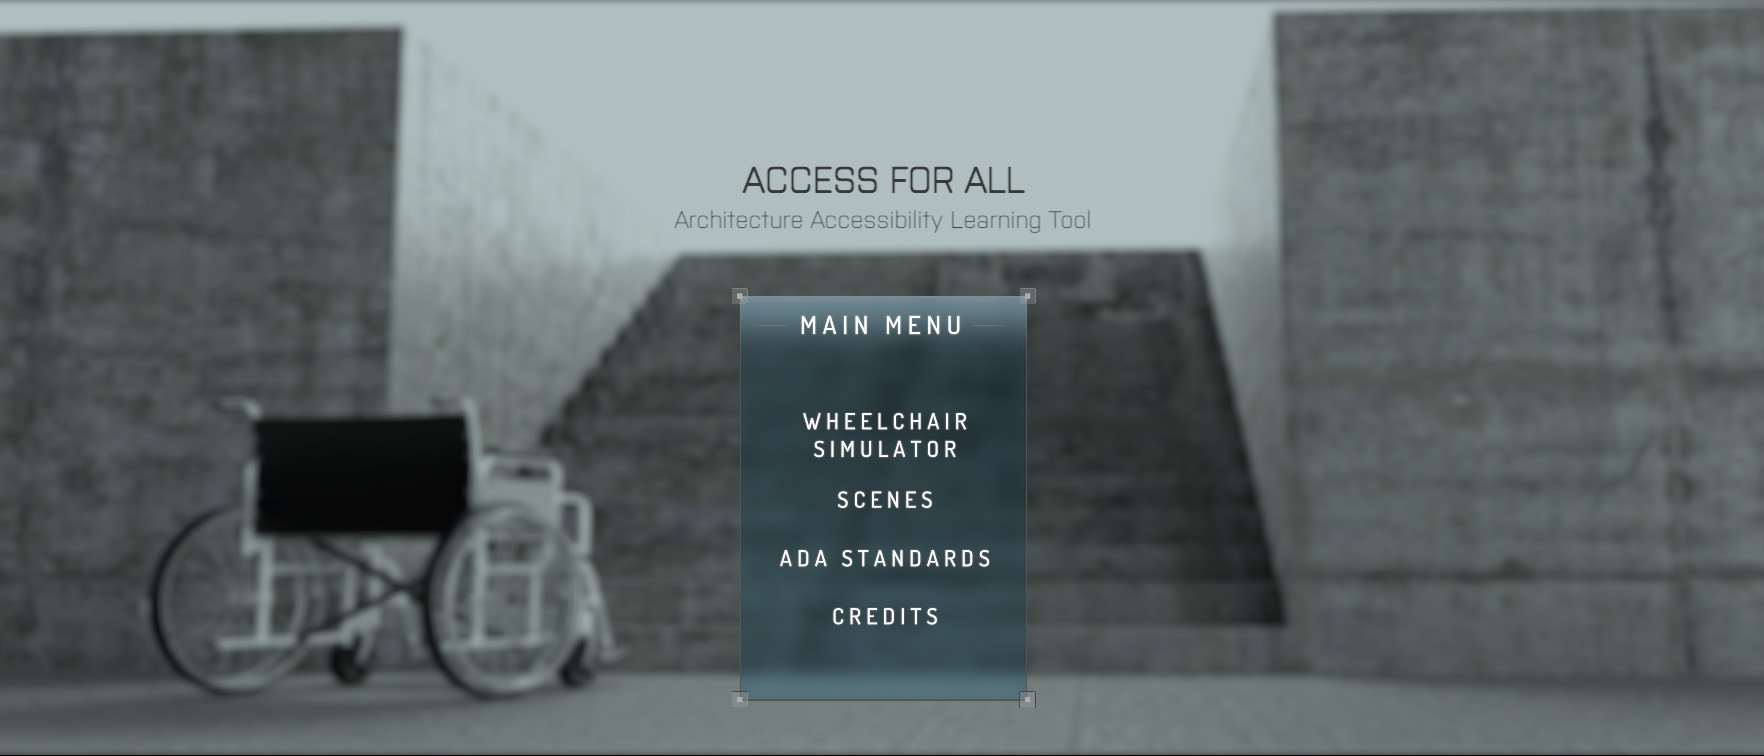
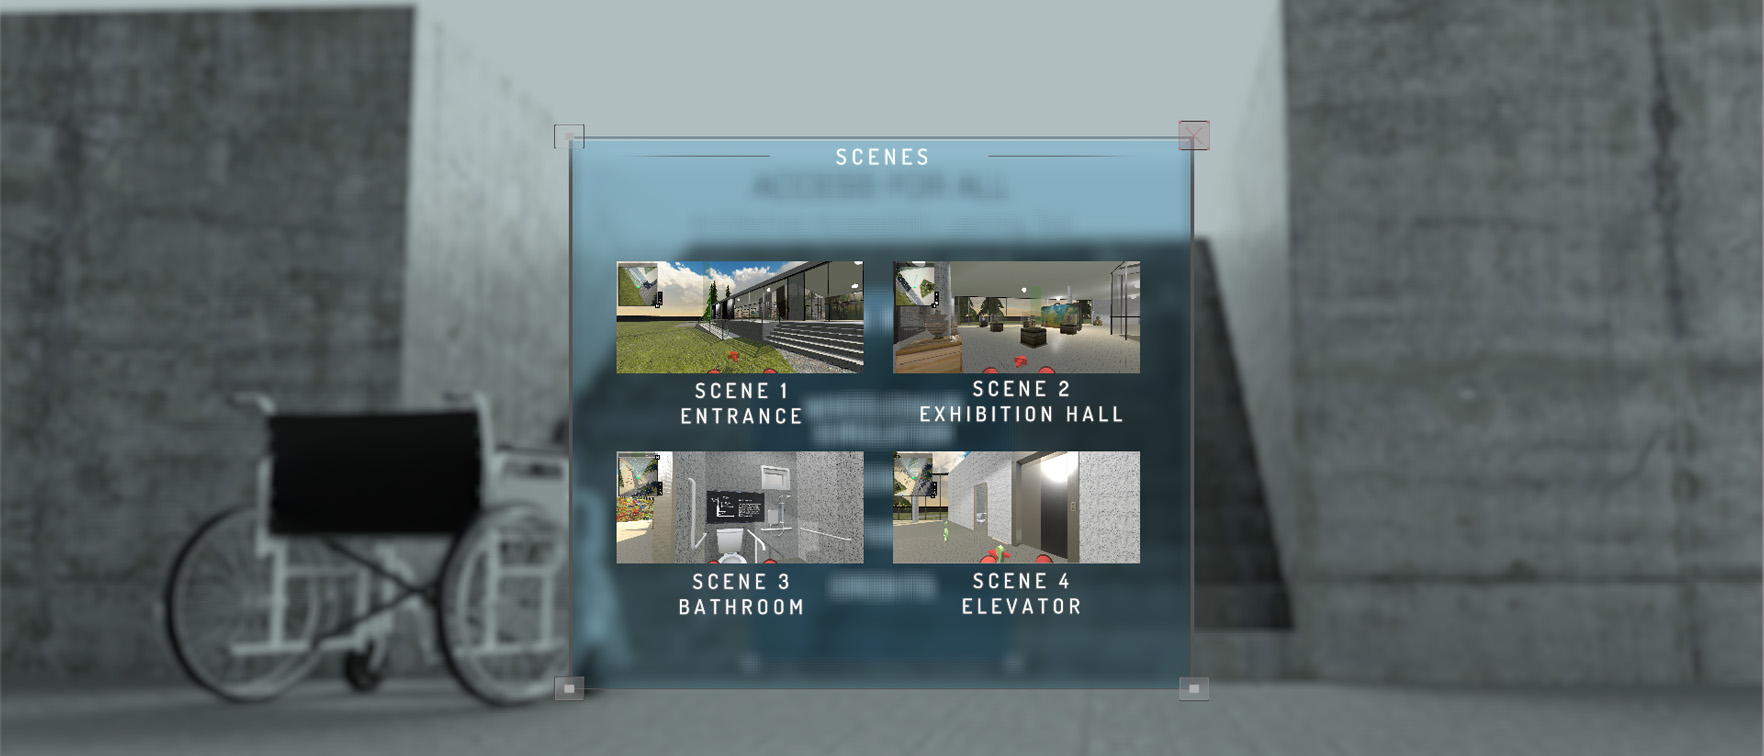
08/12 updates

diff --git a/vr_accessforall.html b/vr_accessforall.html
@@ -77,7 +77,7 @@
                   <a class="nav-link" href="#project-overview">About Project</a>
                 </li>
                 <li class="nav-item">
-                  <a class="nav-link" href="about_me.html">About Me</a>
+                  <a class="nav-link" href="about_me_.html">About Me</a>
                 </li>
                 <li class="nav-item">
                   <a class="nav-link" href="mailto:wayne11373@gmail.com"
@@ -109,7 +109,9 @@
       </div>
 
       <div class="menu my-5">
-        <a class="menu-item d-block" href="#project-overview">WHAT DO I DO?</a>
+        <a class="menu-item d-block" href="#project-overview"
+          >WHAT'S 'ACCESS FOR ALL'?</a
+        >
         <a class="menu-item d-block" href="#mockups">WANNA SEE SOME GOODS?</a>
         <a
           class="menu-item d-block"
@@ -162,7 +164,7 @@
       <div class="row">
         <!-- Project Overview-->
         <div class="col-md-3">
-          <h2 class="section-title">Project Overview</h2>
+          <h2 id="project-overview" class="section-title">Project Overview</h2>
         </div>
         <div class="col-md-9">
           <div class="project-body">
@@ -170,15 +172,21 @@
             <p>
               Access For All is a virtual reality platform that enables
               architects to <b>test their designs</b> and
-              <b>learn about ADA accessibility standards</b>.
+              <b>learn about Architecture ADA accessibility standards</b>.
             </p>
+            <img
+              src="/assets/Access For All/ada_checklists.png"
+              class="project-img"
+              alt="ADA Checklists"
+            />
+            <br />
             <br />
             <p class="icon-bullet">| Problem Statement</p>
             <p>
               - Most <b>young architects</b> don’t have any experience of using
               accessible devices like a wheelchair. It’s too difficult for them
               to have an actual and correct feeling of whether the space is
-              appropriate for wheelchair users before construction. <br />
+              appropriate for wheelchair users before construction. <br /><br />
 
               - The traditional way of reading and learning the ADA architecture
               design standards manual is <b>inefficient and time-consuming</b>,
@@ -194,7 +202,6 @@
               alt="Who"
               style="width: 70%; display: block; margin-left: 0"
             />
-            <br />
             <br />
             <br />
           </div>
@@ -236,7 +243,6 @@
               Rehabilitation), Human Factors in Virtual Reality, Virtual Reality
               & Empathy, and Architecture in Virtual Reality, etc.
             </p>
-            <br />
             <p class="icon-bullet">Key Findings:</p>
             <ul class="custom-bullets">
               <li>
@@ -271,8 +277,8 @@
               To get more sense about accessibility and obtain some first-hand
               information, I interviewed several people. They are related to the
               project and can give suggestions for improvement, including
-              wheelchair users, architects, accessibility experts, UX designers,
-              and some students.
+              wheelchair users, architects, accessibility experts, and UX
+              designers.
             </p>
             <img
               src="/assets/Access For All/interview1.png"
@@ -280,7 +286,6 @@
               alt="Interview1"
               style="width: 70%; display: block; margin: 0 auto"
             />
-            <br />
             <p>
               Besides, I participated in the activity of " Design Jam on
               Accessibility in Urban Contexts". I interviewed three disabled
@@ -370,7 +375,6 @@
             />
             <br />
             <br />
-            <br />
           </div>
         </div>
 
@@ -395,7 +399,6 @@
             />
             <br />
             <br />
-            <br />
           </div>
         </div>
 
@@ -417,7 +420,7 @@
 
         <!-- Low-fidelity Prototype -->
         <div class="col-md-3">
-          <h2 class="section-title">Low-fidelity Prototype</h2>
+          <h2 class="section-title">Low-fidelity Prototype(Digital)</h2>
         </div>
         <div class="col-md-9">
           <div class="project-body">
@@ -440,11 +443,9 @@
             </div>
             <br />
             <p>
-              I built the 3D model in Sketch-Up, a low-fidelity modeling
-              software. The model was made based on the guideline from the ADA
-              Standards. I chose a more comfortable size to create the model
-              rather than just following the minimum rule. Then I imported the
-              model into Unity.
+              Architects can create low-fidelity 3D models in SketchUp and
+              import them into the platform, where they can place ADA
+              checkpoints to evaluate accessibility compliance within the scene.
             </p>
             <br />
             <p class="icon-bullet">| Low-fidelity Testing</p>
@@ -470,7 +471,9 @@
               low-fidelity testing without materials
             </p>
             <br />
-            <p class="icon-bullet">| User Flow(Scenario)</p>
+            <p class="icon-bullet">
+              | User Flow(Scenario created in the platform)
+            </p>
             <img
               src="/assets/Access For All/user_flow.jpg"
               class="project-img"
@@ -484,22 +487,25 @@
 
         <!-- Wheelchair Platform Design -->
         <div class="col-md-3">
-          <h2 class="section-title">Wheelchair Platform Design</h2>
+          <h2 id="mockups" class="section-title">
+            Wheelchair Platform Design(Physical)
+          </h2>
         </div>
         <div class="col-md-9">
           <div class="project-body">
-            <p>
-              After I completed my secondary and primary research, I set up my
-              mind to build a virtual reality platform to help people learning
-              ADA standards. Besides the pain points, architects' superior
-              spatial imagination ability lets them be more willing to
-              experience virtual reality.
-            </p>
             <img
               src="/assets/Access For All/wheelchair_platform_perspective_view.png"
               class="project-img"
               alt="Wheelchair Platform Design"
             />
+            <br /><br />
+            <img
+              src="/assets/Access For All/wheelchair_device_final 2.png"
+              class="project-img"
+              alt="Wheelchair Platform Design"
+              style="width: 80%; display: block; margin: 0 auto"
+            />
+
             <br />
             <br />
             <br />
@@ -508,7 +514,7 @@
 
         <!-- High-fidelity Prototype -->
         <div class="col-md-3">
-          <h2 class="section-title">High-fidelity Prototype</h2>
+          <h2 class="section-title">High-fidelity Prototype(Digital)</h2>
         </div>
         <div class="col-md-9">
           <div class="project-body">
@@ -521,11 +527,11 @@
             <br /><br />
             <p class="icon-bullet">| Scenes</p>
             <p>
-              After deciding to focus on creating an ADA learning platform, I
-              hope the user can go through every key point where design mistakes
-              are likely to occur. Thus, I designed four different scenarios:
-              Entrance, Exhibition Hall, Bathroom, and Elevator. Users can
-              choose any of them on the menu.
+              After creating checkpints in the scene, users(architects) can go
+              through every key point where design mistakes are likely to occur.
+              They can create different scenarios, e.g.: Entrance, Exhibition
+              Hall, Bathroom, and Elevator. Users can choose any of them on the
+              menu.
             </p>
             <img
               src="/assets/Access For All/scenes.jpg"
@@ -563,13 +569,13 @@
             <br /><br />
             <p class="icon-bullet">| ADA Checklists</p>
             <p>
-              In the model, I set up 21 checkpoints(more will be added in the
-              future iteration). Each wheelchair symbol represents each
+              In the platform, each preset wheelchair symbol represents each
               checkpoint in the scene. When users move to the wheelchair symbol,
-              an ADA checklist window will pop up. Users can learn ADA standards
-              by reading(voice explanation will be introduced in the future
-              iteration) text descriptions and Autodesk CAD drawings. The
-              specifications and illustrations are related to the scene.
+              an ADA checklist window will pop up. Users(architects) can learn
+              ADA standards by reading(voice explanation will be introduced in
+              the future iteration) text descriptions and Autodesk CAD drawings.
+              <br />
+              * The specifications and illustrations are related to the scene.
             </p>
             <img
               src="/assets/Access For All/ada_checklists.png"
@@ -580,16 +586,16 @@
             <br />
             <br />
             <br />
+            <br />
           </div>
         </div>
 
-        <!-- Pilot User Testing -->
+        <!-- Video Prototye -->
         <div class="col-md-3">
-          <h2 class="section-title">Pilot User Testing</h2>
+          <h2 class="section-title">Video Prototye</h2>
         </div>
         <div class="col-md-9">
           <div class="project-body">
-            <p class="icon-bullet">🎬 Video Prototype</p>
             <div
               style="
                 position: relative;
@@ -615,44 +621,6 @@
                 title="User Testing"
               ></iframe>
             </div>
-            <br /><br />
-            <img
-              src="/assets/Access For All/user_testing.gif"
-              class="project-img"
-              alt="Pilot User Testing"
-              style="width: 70%; display: block; margin: 0 auto"
-            />
-            <br />
-            <p>
-              After I finished building my first learning platform version 1.0,
-              I did three pilot user testings. The testers are all young
-              architects in New York.
-            </p>
-            <p class="icon-bullet">Some of the feedback I got from them are:</p>
-            <ul class="custom-bullets">
-              <li>
-                Although there is a mini-map, it is still easy to get lost in
-                the scene.
-              </li>
-              <li>A voice assistant would be helpful.</li>
-              <li>The interaction windows always disappear automatically.</li>
-              <li>
-                It is better to have both the text description and image on the
-                ADA checklist.
-              </li>
-              <li>Adding interactive audio will enhance authenticity.</li>
-              <li>I hope for more frustration design.</li>
-            </ul>
-            <p>
-              Another finding in the testing is that although I used some
-              recommended methods to avoid motion sickness, like "Play seated"
-              and adding motion platforms and haptics to match the physical body
-              movement with visual movement. There was still one tester feeling
-              uncomfortable after playing VR for about three minutes. For the
-              next step, I plan to reduce the virtual wheelchair rotations and
-              angular velocity and create experiences that let users rest
-              between moving scenes.
-            </p>
             <br />
             <br />
           </div>

diff --git a/about_me_.html b/about_me_.html
@@ -3,7 +3,7 @@
   <head>
     <meta charset="UTF-8" />
     <meta name="viewport" content="width=device-width, initial-scale=1.0" />
-    <title>FEELIT</title>
+    <title>Access for All</title>
     <link
       href="https://cdn.jsdelivr.net/npm/bootstrap@5.3.2/dist/css/bootstrap.min.css"
       rel="stylesheet"
@@ -23,7 +23,7 @@
 
     <link
       rel="icon"
-      href="ASSETS/Feelit/favicon_feelit.ico"
+      href="ASSETS/Access For All/favicon_accessforall.ico"
       type="image/x-icon"
     />
     <link rel="stylesheet" href="style.css" />
@@ -38,11 +38,11 @@
         >
           <div class="container-fluid pt-3 px-5">
             <!-- Logo -->
-            <a class="navbar-brand" href="feelit.html">
+            <a class="navbar-brand" href="vr_accessforall.html">
               <img
-                src="/assets/Feelit/feelit_logo.png"
+                src="/assets/Access For All/logo_accessforall.png"
                 alt="Logo"
-                height="30"
+                height="70"
               />
             </a>
 
@@ -66,7 +66,9 @@
             >
               <ul class="navbar-nav d-flex align-items-center">
                 <li class="nav-item">
-                  <a class="nav-link" href="feelit.html">About FEELIT</a>
+                  <a class="nav-link" href="vr_accessforall.html"
+                    >About Access for All</a
+                  >
                 </li>
                 <li class="nav-item">
                   <a class="nav-link" href="about_me.html">About Me</a>
